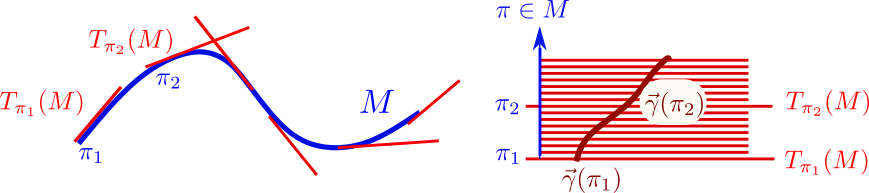
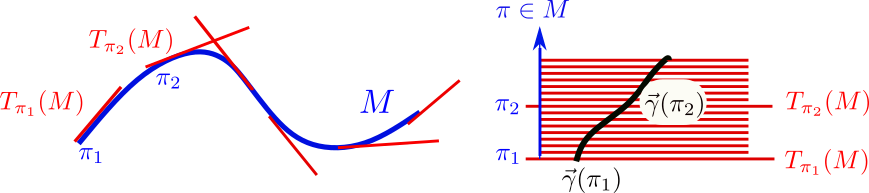
differential geometry chapter

diff --git a/tempo.tex b/tempo.tex
@@ -624,7 +624,7 @@ of its fiber $T_\pi(M)$ at $\pi$. \ul {$\vec{\gamma}$ is a vector field.}
 \eeq
 See Fig.\ref{fig-bundle-section} 
 for a pictorial representation of a bundle section.
-\item $\Gamma(M)=\{ \vec{\gamma}(\cdot)\mid   \vec{\gamma}: M \rarrow T(M)\text{ is a section}\}=$ {\bf set of all sections}. \ul{This is a vector space.}
+\item $\Gamma(M)=\{ \vec{\gamma}(\cdot)\mid   \vec{\gamma}: M \rarrow T(M)\text{ is a section}\}=$ {\bf set of all bundle sections}. \ul{This is a vector space.}
 
 \end{itemize}
 
@@ -633,7 +633,7 @@ for a pictorial representation of a bundle section.
 \includegraphics[width=5in]
 {differ-geo/bundle_section.png}
 \caption{Pictorial representation of a 
-vbundle section of a tangent bundle.}
+bundle section for a tangent bundle.}
 \label{fig-bundle-section}
 \end{figure}
 
